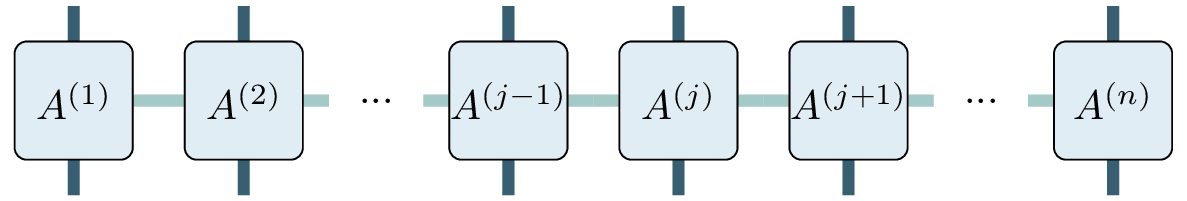
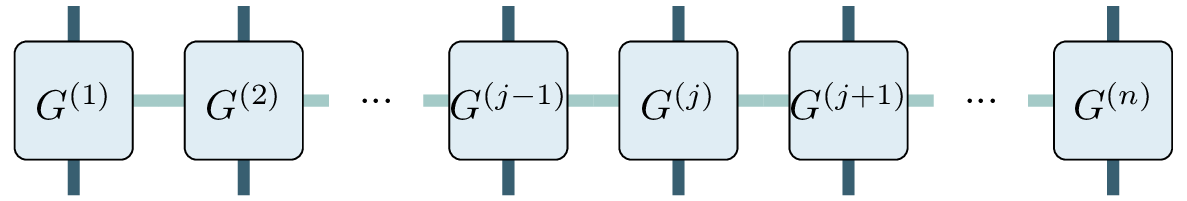
Update tensorizing presentation

diff --git a/tensorizing.md b/tensorizing.md
@@ -6,13 +6,13 @@ paginate: true
 _paginate: false
 ---
 
-# Tensorizing NNs and Transformers
+# Tensorizing Neural Networks and Transformers
 
 Ejaaz Merali
 
 PIQuIL
 
-August 14th, 2020
+August 21st, 2020
 
 ---
 
@@ -23,7 +23,6 @@ August 14th, 2020
   - Tensorizing Embedding Layers (Khrulkov et al. 2019)
   - Compressed Transformers (Khakhulin et al. 2019)
 - Tensorizing Attention
-  - Multi-Linear Attention (Ma et al. 2019)
   - TensorCoder (Zhang et al. 2020)
 
 ---
@@ -39,7 +38,7 @@ August 14th, 2020
 
 ## Tensor Trains (1/3)
 
-- Start with a matrix $W \in \mathbb{R}^{I\times J}$, reshape it into a tensor with $2n$ indices (i.e. a rank $2n$ tensor):
+- Start with a matrix $X \in \mathbb{R}^{I\times J}$, reshape it into a tensor with $2n$ indices (i.e. a rank $2n$ tensor):
 
 <style>
 img[alt~="center"] {
@@ -49,9 +48,9 @@ img[alt~="center"] {
 </style>
 ![center](tn_diagrams/reshaped_matrix.png)
 
-- Now have a tensor $\mathcal{W} \in \mathbb{R}^{I_1\times I_2 \times \ldots I_n \times J_1 \times J_2 \times \ldots \times J_n}$
+- Now have a tensor $\mathcal{X} \in \mathbb{R}^{I_1\times I_2 \times \ldots I_n \times J_1 \times J_2 \times \ldots \times J_n}$
 
-- We can approximate this using $n$ smaller tensors of rank (at most) 4.
+- We can approximate this using $n$ smaller tensors of ranks 3 or 4.
 
 ---
 
@@ -65,6 +64,7 @@ img[alt~="center"] {
 - In Physics such a structure is often called a Matrix Product Operator.
 
 - *Unlike* Physics, however, here we get to decide the length of the Tensor Train (more tunable hyperparameters!).
+  - Also, with MPOs we often want Hermiticity; not here
 
 ---
 
@@ -73,9 +73,9 @@ img[alt~="center"] {
 Mathematically, our weight tensor is:
 
 $$
-\mathcal{W}[(i_1, j_1), (i_2, j_2), \ldots, (i_n, j_n)]
-= A^{(1)}[(i_1, j_1), :] * A^{(2)}[:, (i_2, j_2), :] * \cdots
-* A^{(n)}[:, (i_n, j_n)]
+\mathcal{X}[(i_1, j_1), (i_2, j_2), \ldots, (i_n, j_n)]
+= G^{(1)}[(i_1, j_1), :] * G^{(2)}[:, (i_2, j_2), :] * \cdots
+* G^{(n)}[:, (i_n, j_n)]
 $$
 
 - Applying these weights to an input vector requires reshaping the vector into a rank-$n$ tensor and performing the necessary contractions.
@@ -97,6 +97,8 @@ $$
 ---
 
 ## Tensorizing Neural Networks: Results
+
+Note: In this paper they implemented a matrix rank restricted layer. This was implemented by composing two rectangular matrices, such that the contracted/middle dimension was small.
 
 ---
 <!--
@@ -140,7 +142,6 @@ _footer: (Novikov et al. 2015)
 
 ## Tensorized Embeddings: Results
 
-
 ---
 
 <!--
@@ -181,10 +182,169 @@ _footer: (Khrulkov et al. 2019)
 
 - GitHub project not a paper
 - Apply Tensor Train parametrization to every FFN in a Transformer
-- Results seem good, but runtime suffers (probably due to non-optimal implementation)
+- Results look promising, but runtime suffers (probably due to non-optimal implementation)
+- Methodology isn't very well explained
 
 ---
 
 ## Compressed Transformers: Results
 
 ---
+
+WMT16 Translation Task
+
+Method | BLEU | N_comp/N | Compression Rate | Time
+-------|------|----------|------------------|------
+original model | 0.442 | 0/6 | 1.0 | 41.38
+tt-transformer | 0.407 | 6/6 | 1.644 | 84.56
+small-transformer | 0.403 | 0/3 | 1.6 | -
+tt-small-transformer | 0.396 | 3/3 | 2.1713 | 34.94
+tt-transformer | 0.468 | 5/6 | 1.484 | 59.833
+tt-transformer | 0.455 | 4/6 | 1.353 | 60.4
+tt-transformer | 0.472 | 3/6 | 1.243 | 45.28
+tt-transformer | 0.450 | 2/6 | 1.150 | 43.97
+tt-transformer | 0.369 | 1/6 | 1.07 | 34.63
+tucker         | 0.447 | 6/6 | 1.64 | 43.83
+
+small-transformer uses 3 encoder/decoder layers instead of 6
+
+---
+
+Method | BLEU | Compression Rate | Time
+-------|------|------------------|----
+original model | 0.442 | 1.0 | 41.38
+all tt2 | 0.434 | 1.65 | 76.89
+5/6 tt2 | 0.489 | 1.485 | 75.24
+3/6 tt2 | 0.412 | 1.243 | 71.36
+1/6 tt2 | 0.414 | 1.069 | 40.97
+small-transformer | 0.403 | 1.6 | 31.28
+tt4 | 0.407 | 1.64 | 84.56
+1/2 tt4 | 0.472 | 1.24 | 45.28
+Tucker | 0.447 | 1.64 | 43.83
+
+---
+
+<!--
+_class: default
+_footer: (Khakhulin et al. 2019)
+-->
+
+![bg 70%](imgs/compressed_transformer_full_val_bleu_curve.png)
+
+---
+
+<!--
+_class: default
+_footer: Training curve for *small* batch size (Khakhulin et al. 2019)
+-->
+
+![bg 70%](imgs/compressed_transformer_val_bleu_curve.png)
+
+---
+
+## Tensorizing Attention
+
+---
+
+## TensorCoder (1/4)
+
+- Token-wise Attention requires us to compute $QK^T \in \mathbb{R}^{N \times N}$ (token-wise attention)
+  - Time-complexity: $O(N^2 d_k)$
+- Propose Dimension-wise Attention which instead computes: $Q^T K \in \mathbb{R}^{d_k \times d_k}$
+  - Time-complexity: $O(N d^2_k)$
+  - Note: we *do not* redefine our values matrix $V$ to be of a compatible size
+
+---
+
+## TensorCoder (2/4)
+
+Define $S_{jk} = f\left(\sum_{n=1}^N Q_{nj}K_{nk}\right)$, where $f$ is some function (ex. a softmax, or a scaling)
+
+In order to keep using the same $V \in \mathbb{R}^{N\times d_v}$ matrix as with token-wise attention, we compute the Khatri-Rao product of $S$ and $V$:
+
+$$\chi_{ijk} = S_{jk} V_{ik} \in \mathbb{R}^{N\times d_k \times d_k} \quad \sim \quad O(N d_k^2)$$
+
+Note that we've implicitly assumed that the dimension of the key-space $d_k$ is equal to the dimension of the value-space $d_v$. This is fine since they're often taken to be equal in practice (see even the original Transformer paper).
+
+---
+
+## TensorCoder (3/4)
+
+Our construction so far works fine for encoder layers, but we need causal masking for decoder or generative layers
+
+Define a masking matrix $M \in \mathbb{R}^{N\times N}$, $M_{ij} = \mathbb{I}(i \leq j)$ (upper-triangle is full of $1$s)
+
+$$S_{ijk} = \sum_{n=1}^N Q_{ni} K_{nj} M_{nk} \in \mathbb{R}^{d_k \times d_k \times N} \quad \sim \quad O(N^2 d_k^2)$$
+
+Then
+
+$$\chi_{ijk} = S_{jki} V_{ik} \in \mathbb{R}^{N\times d_k \times d_k} \quad \sim\quad O(N d_k^2)$$
+
+Aside: I think their implementation of $S_{ijk}$ is sub-optimal. You can express the summation for $S$ as a cumulative summation over $n$, in which case we only have linear time-scaling in $N$.
+
+---
+
+## TensorCoder (4/4)
+
+For both masked and unmasked dimension-wise attention, we finally need to return to the proper feature space
+
+$$O_{ij} = \sum_{m=1}^d W_{jm} \chi_{ijm} \in \mathbb{R}^{N\times d_k} \quad \sim \quad O(N d_k^2)$$
+
+where $W \in \mathbb{R}^{d_k\times d_k}$
+
+Define an analogue to multi-head attention by learning $h$ different matrices $O$ (using different parameter sets), concatenating these along the feature dimension, and then applying a learned linear map ($hd_k \times d_m$) to get an output of size $N \times d_m$
+
+---
+
+## TensorCoder: Results
+
+---
+
+<!--
+_class: default
+_footer: (Zhang et al. 2020)
+-->
+
+![bg 100%](imgs/tensorcoder_mlm.png)
+
+---
+
+<!--
+_class: default
+_footer: (Zhang et al. 2020)
+-->
+
+![bg 100%](imgs/tensorcoder_mlm_loss.png)
+
+---
+
+<!--
+_class: default
+_footer: (Zhang et al. 2020)
+-->
+
+![bg 90%](imgs/tensorcoder_translation.png)
+
+---
+
+## TensorCoder: Comments
+
+- Not clear if dimension-wise attention loses expressivity
+  - Decreased performance on the Wiki-103 dataset vs PTB might be an indicator of this
+- Since we're assuming $d_k = d_v$, why not just compute the output of attention as: $VS \in \mathbb{R}^{N\times d_k}$?
+- Linearization proposed by the "Transformers are RNNs" paper is still better in terms of memory usage (don't need to store a $N \times d_k \times d_k$ array)
+  - Because we sum over the "time" index, we're forced to store this large array in order to enforce causal masking
+
+---
+
+## References
+
+Novikov, Alexander, et al. "Tensorizing neural networks." Advances in neural information processing systems. 2015.
+
+Khrulkov, Valentin, et al. "Tensorized embedding layers for efficient model compression." arXiv preprint arXiv:1901.10787 (2019).
+
+Khakhulin, Taras, et al. "Compressed Transformer." GitHub repository https://github.com/khakhulin/compressed-transformer
+
+Ma, Xindian, et al. "A tensorized transformer for language modeling." Advances in Neural Information Processing Systems. 2019.
+
+Zhang, Shuai, et al. "TensorCoder: Dimension-Wise Attention via Tensor Representation for Natural Language Modeling." arXiv preprint arXiv:2008.01547 (2020).
